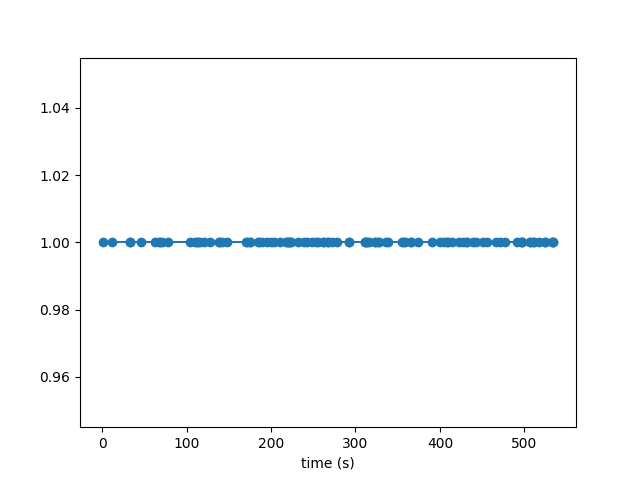
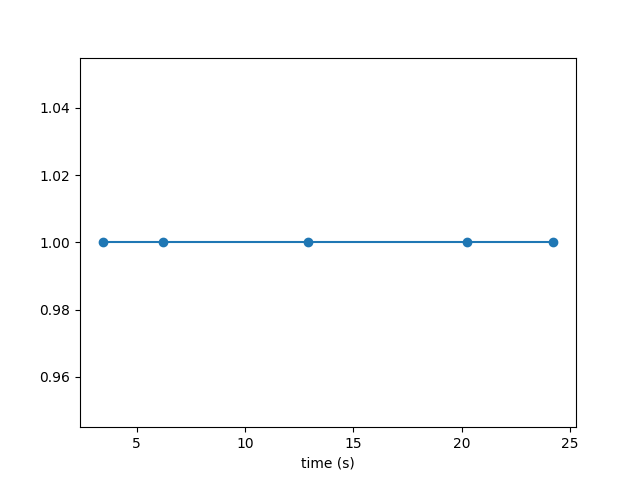
database working

diff --git a/cpu_load/app.py b/cpu_load/app.py
@@ -1,6 +1,5 @@
 import time
-
-import database
+import sqlite3
 from celery import Celery
 from flask import Flask, request
 from datetime import datetime
@@ -11,19 +10,25 @@ app = Flask(__name__)
 
 celery = Celery(broker='redis://localhost:6379/0')
 
+conn = sqlite3.connect("cpu_load.db")
+cursor = conn.cursor()
+sql = 'create table if not exists tasks (id integer primary key, client_id integer, job_id integer, ' \
+      'start_time timestamp , end_time timestamp, duration timestamp )'
+cursor.execute(sql)
+conn.commit()
 
-@celery.task(name='face.recognition')
-def face_recognition(job_id, client_id, start, conn):
+
+@celery.task(name="face.recognition")
+def face_recognition(job_id, client_id, start):
     result = recognize_func()  # face recognition
 
     end = time.time()
     duration = end - float(start)
     
-    sql = """INSERT INTO tasks(client_id,job_id,start_time, end_time, job_id) VALUES(?,?,?,?,?) """
-    values = (client_id, job_id, start, end, duration)
-    conn.cursor.execute(sql, values)
-    return "Client ID: " + str(client_id) + " JOB ID: " + str(job_id) + " Start: " + \
-           str(start) + " Duration: " + str(duration)
+    cursor.execute("insert into tasks (client_id, job_id, start_time, end_time, duration) values (?,?,?,?,?)",
+                   (client_id, job_id, start, end, duration))
+    conn.commit()
+    return "Client: " + str(client_id) + " JOB: " + str(job_id) + " Duration: " + str(duration)
 
 
 @app.route('/')
@@ -36,10 +41,9 @@ def task_face_recognition():
         
     job_id = request.args.get('job_id')
     client_id = request.args.get('client_id')
-    connection = request.args.get('conn')
-    
     start_time = time.time()
-    task = face_recognition.delay(job_id, client_id, start_time, connection)
+    
+    task = face_recognition.delay(job_id, client_id, start_time)
     return str(task)
 
 

diff --git a/cpu_load/client.py b/cpu_load/client.py
@@ -2,30 +2,29 @@ import requests
 import time
 import random
 
-import database
 import matplotlib.pyplot as plt
 from multiprocessing import Process
 BASE_URL = "http://0.0.0.0:5000"
 F_REC = "/face_recognition"
 
 
-def client_face_recognition(URL, ID, connection):
+def client_face_recognition(URL, ID):
     poisson_rate = 1 / 5.0  # 1 jobs per 5 sec
     # simulate 30 minutes-10*30 = 300
     begin = time.time()
     time_series = 0
     poisson_data = []
-    for i in range(100):
+    for i in range(5):
         nextitem = random.expovariate(poisson_rate)
         time_series += nextitem
         poisson_data.append(time_series)
         time.sleep(nextitem)
 
-        params = {"job_id": i, "client_id": ID, "conn": connection}
+        params = {"job_id": i, "client_id": ID}
         response = requests.get(url=URL, params=params)
 
         if response.status_code == 200:
-            print("{CLIENT %d] JOB: %d-submitted" % (ID,i))
+            print("[CLIENT %d] JOB-%d-submitted" % (ID,i))
         elif response.status_code == 404:
             print("JOB: %d-server error!" % i)
 
@@ -40,10 +39,11 @@ def client_face_recognition(URL, ID, connection):
 
 
 if __name__ == '__main__':
-    connection = database.get_connection()
-    jobs = [Process(target=client_face_recognition, args=(BASE_URL + F_REC, i, connection)) for i in range(8)]
-    for p in jobs:
-        p.start()
-    for p in jobs:
-        p.join()
+    client_face_recognition(BASE_URL + F_REC, 1)
+    # client_face_recognition(BASE_URL + F_REC, 2)
+    # jobs = [Process(target=client_face_recognition, args=(BASE_URL + F_REC, i)) for i in range(8)]
+    # for p in jobs:
+    #     p.start()
+    # for p in jobs:
+    #     p.join()
 

diff --git a/cpu_load/database.py b/cpu_load/database.py
@@ -25,7 +25,7 @@ def get_connection():
 
     create_table(cursor, sql_create_tasks_table)
 
-    return connection
+    return cursor
 
 
 def close_connection(connection):
